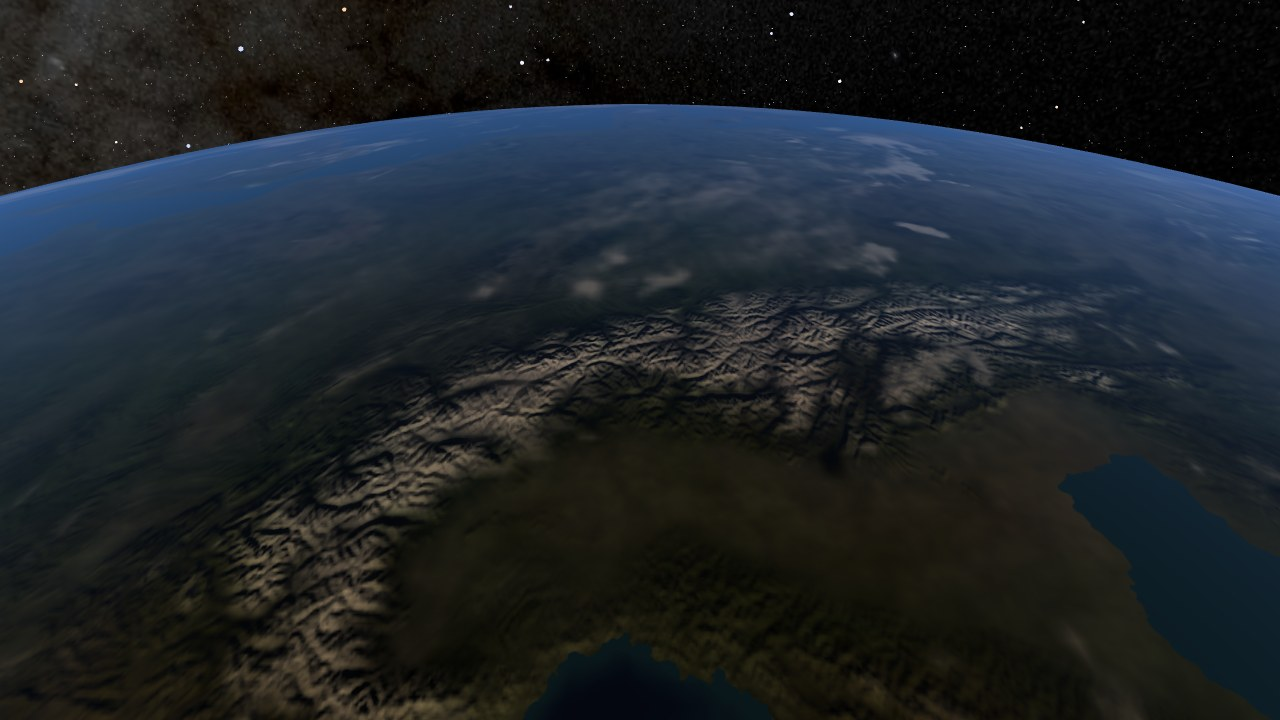
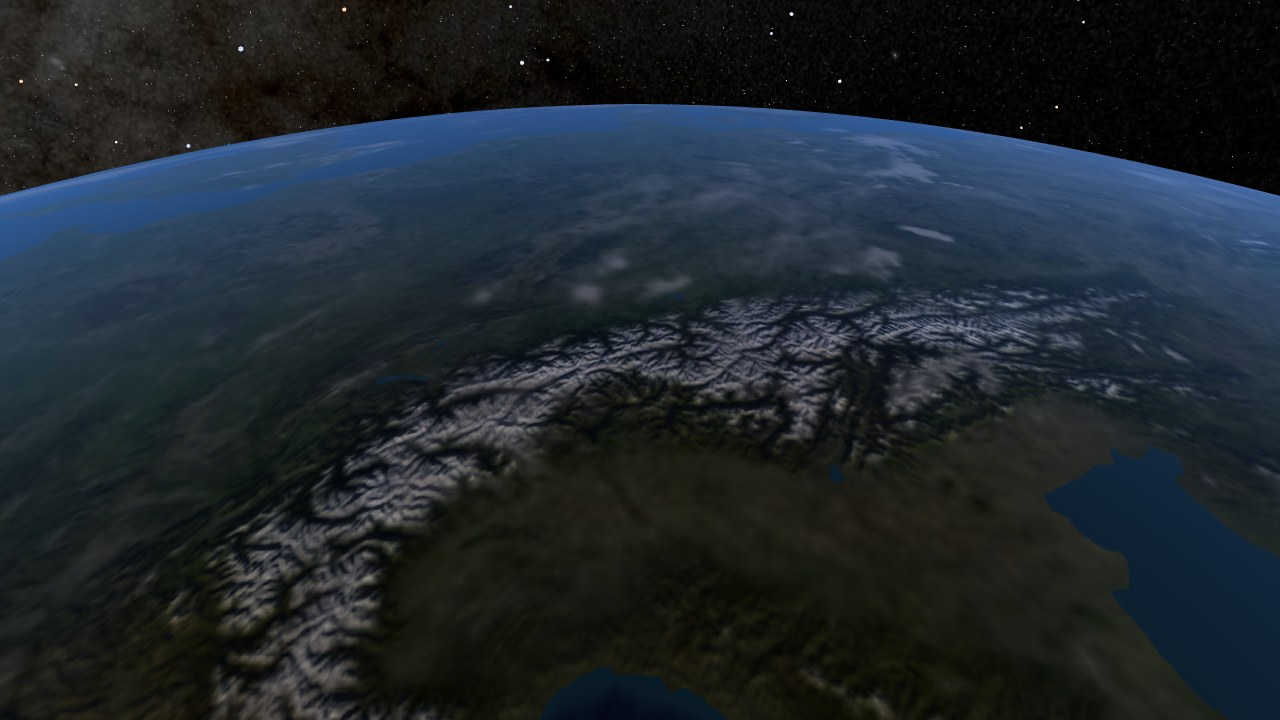
Stop drawing bare Antarctic ice as water and stop darkening forests below their map colors
- Bright blue above sea level no longer counts as water when building
  Earth's land mask (blue ice on the ice sheets and glaciers)
- Keep the canopy shading's average brightness at the map color instead of
  multiplying forests by 0.6 from afar and about 0.8 up close
- Add the Earth day, Alps and haze shots to the gallery retake tool and
  retake the Alps and haze images

diff --git a/tools/make_earth_assets.py b/tools/make_earth_assets.py
@@ -80,6 +80,7 @@ def land_fraction(work, color):
     海陸: 標高 0 m 以上を陸とする。ただし地表画像で水の色の所（カスピ海などの湖）は水、
     海面下でも暗くなく水の色でない浅い所（オランダの干拓地・カスピ海の北の低地など）は陸。
     地表画像の浅い内海はほとんど黒い（瀬戸内海・東京湾）ので、暗い所はこの例外から除く。
+    海面より高い所の明るい青は水にしない（南極・グリーンランドの氷床の、雪が飛ばされて氷が出た所が水になっていた）。
     海とつながっていない海面下の土地は、地表画像で砂や岩の色（赤みがあって明るい）の所を陸にする（カッターラ低地 -133 m・
     トルファン盆地 -154 m・ダナキル低地 -125 m・デスバレー -86 m・ヨルダン渓谷など。どれも 50 m より深い）。
     海とつながった所は広げない（南極などの海氷・凍った入り江が陸になる）。水の色の所（死海・ソルトン湖）と、
@@ -96,6 +97,7 @@ def land_fraction(work, color):
                        np.float32)
         R, G, B = c[..., 0], c[..., 1], c[..., 2]
         water = (B > np.maximum(R, G) + 8) | ((R + G + B < 100) & (B >= R))
+        water &= (e <= 0) | (R + G + B < 450)   # 海面より高い所の明るい青は氷（南極・グリーンランドの裸氷。凍った湖は暗い）
         landish = (e >= 0) | ((e > -50) & (R >= B) & (R + G + B >= 60))
         land[r * tile:(r + 1) * tile] = landish & ~water
         dry[r * tile:(r + 1) * tile] = ~water & (R >= B + 15) & (R + G + B >= 150)

diff --git a/src/shaders.h b/src/shaders.h
@@ -1177,7 +1177,10 @@ vec4 earthTex(vec3 p, vec3 o, float ndlG, out vec3 base, out float specMask, out
         if (forest > 0.0) {
             vec4 cr = canopy(p, R / 8.0, o * 0.61);
             m += cr * (0.5 * forest);
-            base *= mix(1.0, 0.6 + 0.35 * clamp(cr.x * (R / 8.0), 0.0, 1.4), forest * land);
+            // くぼみを暗く、冠の上を明るく。地図の色は樹冠の陰も含めた平均なので、平均の明るさは変えない
+            // （canopy の値の平均は 1 段目 0.5、2 段目 0.5 / 2.1 に、遠くで画素より細かくなって消える割合を掛けたもの）
+            float w1 = lodW(R / 8.0), cm = 0.5 * w1 + (w1 > 0.0 ? 0.5 * 0.5 / 2.1 * lodW(R / 8.0 * 2.1) : 0.0);
+            base *= mix(1.0, 1.0 + 0.35 * (cr.x * (R / 8.0) - cm), forest * land);
         }
         if (g_ice > 0.0) {
             vec3 e = cross(vec3(0.0, 1.0, 0.0), p);

diff --git a/tools/retake_gallery.py b/tools/retake_gallery.py
@@ -48,6 +48,9 @@ COCKPIT = ["--cockpit", "--photo", "2"]
 SHOTS = {
     "sunset": (lambda: ["--frames", "30", "--hours", hours("2026-10-29 02:09"), "--target", "3", "--at", "35", "-134", "0.1",
                         "--face-sun", "3"], None),
+    "earth_day": (lambda: ["--frames", "150", "--hours", hours("2026-11-17 03:00"), "--target", "3", "--at", "36", "138", "3000"],
+                  None),
+    "earth_alps": (lambda: ["--frames", "240", *COCKPIT, "--share", at("Earth", 6378.137, 43, 9, 300, 0, -40, 9816.95)], None),
     "haze": (lambda: ["--frames", "30", "--hours", hours("2026-10-29 02:39"), "--target", "3", "--at", "35", "139", "10",
                       "--photo", "1"], None),   # 日本の上空 10 km
     "mars_sky": (lambda: ["--frames", "30", "--hours", hours("2026-10-29 08:09"), "--target", "4", "--at", "0", "0", "0.1",

diff --git a/CHANGELOG.md b/CHANGELOG.md
@@ -4,6 +4,12 @@
 
 リリースの時は、その版の項目が GitHub のリリースノートにも載ります。
 
+## 2.70.4 (2026-11-25)
+
+- 南極の氷床の上に水面がまだらに描かれていたのを直した。地表の画像で雪が風で飛ばされて氷が出た所（青みのある明るい氷）を水と判定していた。海面より高い所の明るい青は水にしない（南極で約 11 万テクセル、グリーンランド・パタゴニア・アラスカなどの氷河の約 2 千テクセルが陸になる。凍った湖は暗いので水のまま）。南極の海岸ぞいには、氷床の高さのデータと地表の画像の海岸線がずれて、海の色の所が少し残る
+- 地球の森が、地図の色より暗く描かれていたのを直した（遠くからは 0.6 倍、近くでも平均 約 0.8 倍）。樹冠の凹凸の陰で暗くする処理が、地図の色にもともと含まれている陰を二重に数えていた。凹凸の濃淡は残し、平均の明るさは地図のままにする。上空から見た日本の山地などが、もやで紺色に見えにくくなる
+- README の「上空から見たアルプス」と「高度 10 km から見た、かすむ地平線」の画像を撮り直した
+
 ## 2.70.3 (2026-11-25)
 
 - 地球の海面より低い乾いた土地が海に描かれていたのを直した（カッターラ低地 -133 m・ダナキル低地・トルファン盆地・デスバレー・ヨルダン渓谷・アルゼンチンの低地など）。海とつながっていない海面下の土地は、地表の画像で砂や岩の色の所を陸にする。死海・ソルトン湖など水の色の湖は水のまま（湖の形も実際に近くなった）。海とつながった所は変えない。標高のデータは陸の 0 m 未満を表せないので、低地は 0 m の平らな陸として描かれる。2004 年の地表の画像で淡い青緑の死海の南の塩田は、大部分が陸になる

diff --git a/CHANGELOG.en.md b/CHANGELOG.en.md
@@ -4,6 +4,12 @@
 
 The release workflow copies the section of the version being released into the GitHub release notes.
 
+## 2.70.4 (2026-11-25)
+
+- Fixed patches of water drawn on the Antarctic ice sheet. Bare ice where the wind has blown the snow away (bright bluish ice in the surface image) was taken for water. Bright blue above sea level no longer counts as water (about 110,000 texels in Antarctica and about 2,000 on glaciers in Greenland, Patagonia, Alaska and elsewhere become land; frozen lakes are dark and stay water). A little sea-colored area remains along the Antarctic coast, where the ice sheet elevations and the coastline in the surface image do not line up
+- Earth's forests were drawn darker than their map colors (0.6 times from afar and about 0.8 times on average up close). The shading of the bumpy canopy counted again the shadows already in the map colors. The light and dark of the canopy stay, and the average brightness now matches the map. Mountain areas such as Japan's look less navy blue through the haze from above
+- Retook the README images of the Alps from above and of the hazy horizon from 10 km up
+
 ## 2.70.3 (2026-11-25)
 
 - Dry land below sea level on Earth was drawn as sea (the Qattara Depression at -133 m, the Danakil Depression, the Turpan Depression, Death Valley, the Jordan Valley, the depressions in Argentina and so on). Land below sea level that is not connected to the ocean now counts as land where the surface image shows sand or rock. Lakes that look like water, such as the Dead Sea and the Salton Sea, stay water (their shapes are also closer to the real ones). Areas connected to the ocean are unchanged. The elevation data cannot hold land below 0 m, so the depressions are drawn as flat land at 0 m. The salt ponds south of the Dead Sea, pale blue-green in the 2004 surface image, are mostly land
